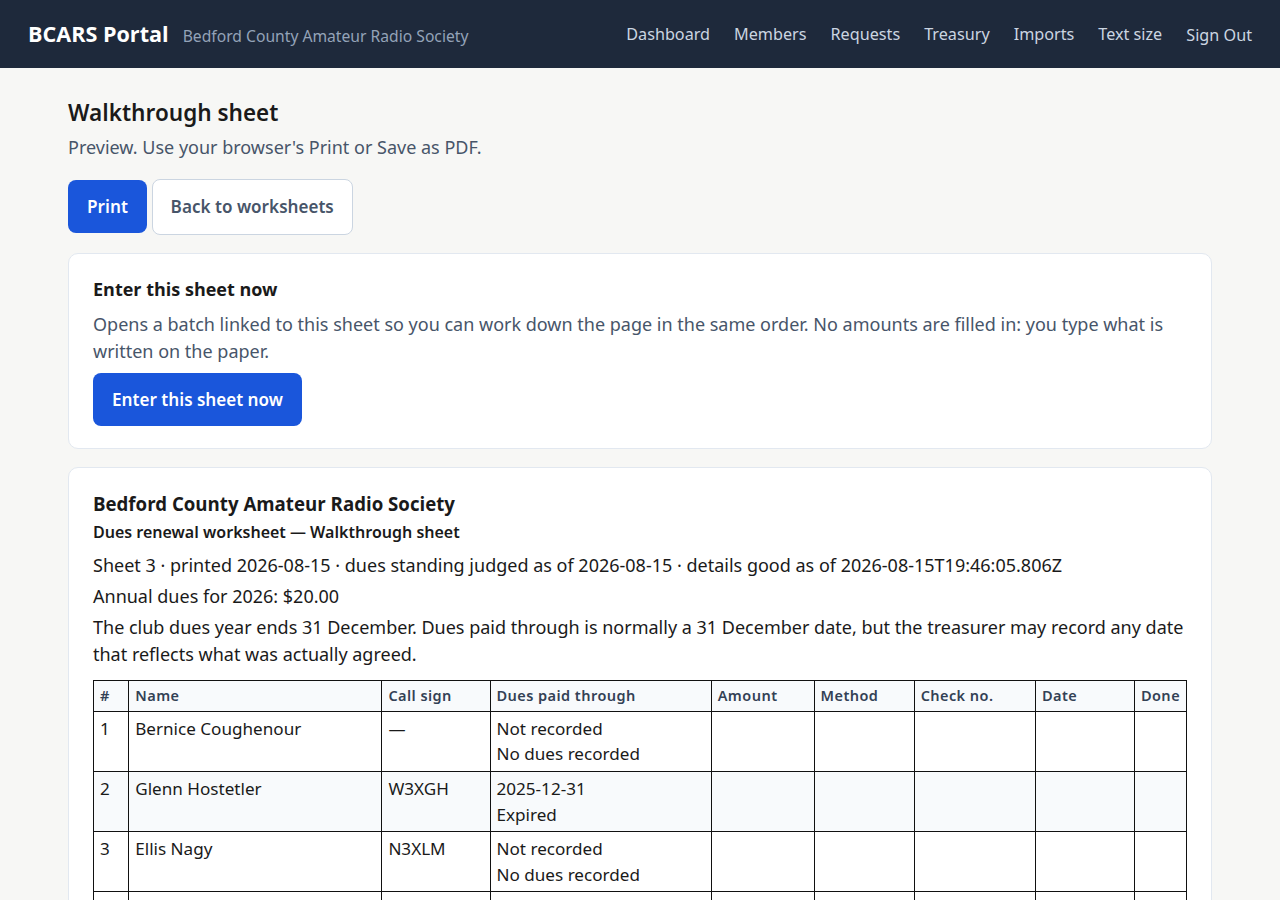
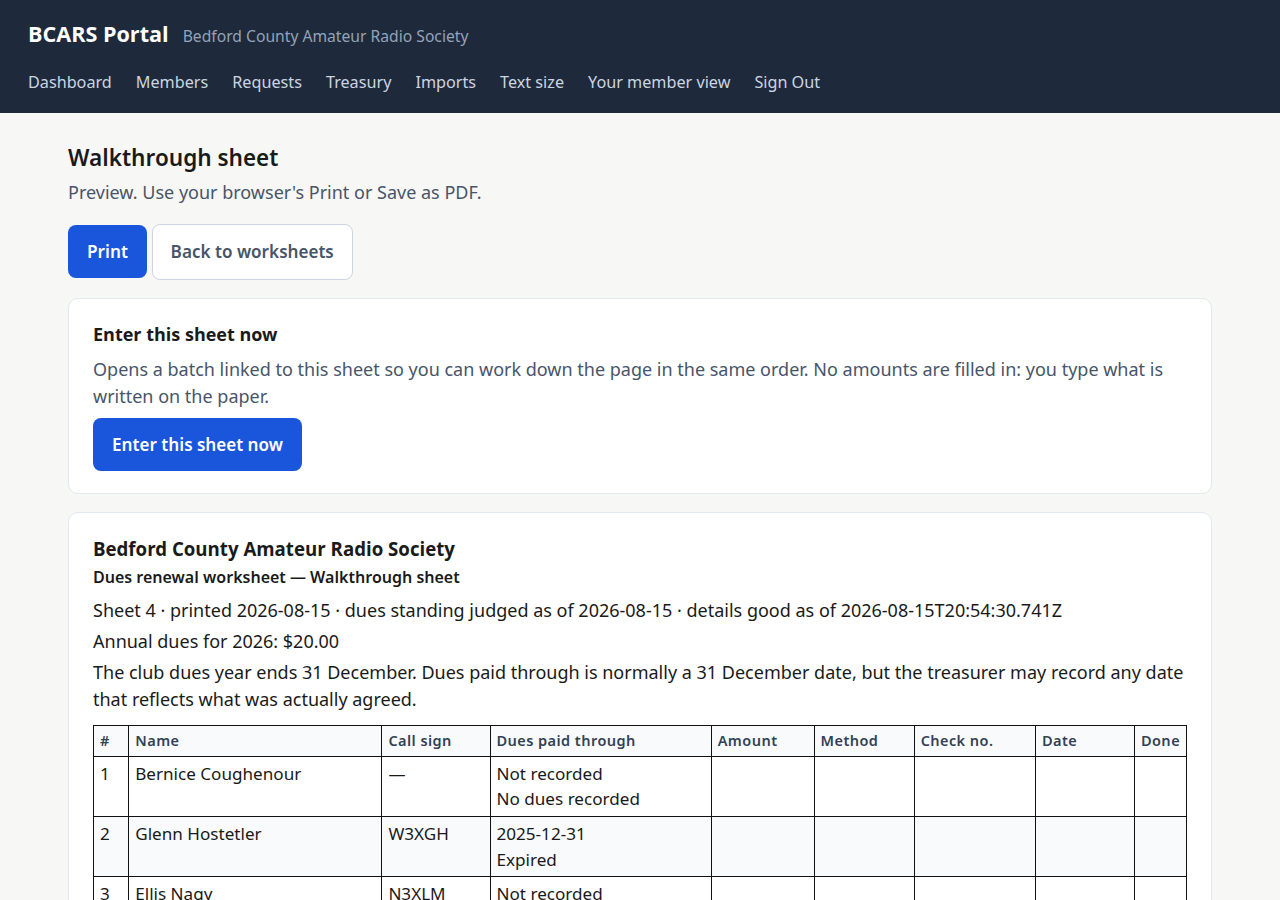
feat(web): a way across between the officer and member surfaces (62d)
The two headers had no link between them, so whichever surface a caller
landed on was the one they stayed in: a treasurer who is also a member
had their own records on one side and the treasury on the other, and the
only way across was to type a URL. Officers are members, so this is the
ordinary case rather than an edge one.

Each header now offers the other surface, and only to a caller who can
reach it: the officer header links the member view when the caller holds
profile.self.read, and the member header links the officer view when the
caller can reach any officer surface. A member sees no officer link,
which is asserted, because a link that leads to a refusal is worse than
no link.

The two layouts stay separate templates. A single header that asked which
caller it was rendering for would be one forgotten condition away from
advertising officer pages to a member, which is why they were split.

To gate the links the layout needed to know the caller's capabilities,
which it never has: chrome carried only TextSize. It now carries the nav
flags navFor already computes, threaded through h.renderPage — the single
funnel that has the request in hand — for the same reason TextSize goes
that way rather than onto sixty-odd view models, one of which would be
forgotten.

Both directions mutation-checked: removing the officer-side link, and
making the member-side link unconditional, each turn the matching test
red.
[…]

diff --git a/internal/web/templates/layout.html b/internal/web/templates/layout.html
@@ -58,6 +58,19 @@
             <a href="/admin/treasury">Treasury</a>
             <a href="/admin/imports">Imports</a>
             <a href="/preferences/text-size">Text size</a>
+            {{/*
+                The way across to the member surface, shown only to an officer
+                who has one. Officers are members, so most officers do — and
+                before this the two surfaces had no link between them at all:
+                whichever one you landed on was the one you stayed in
+                (bcars-portal-62d).
+
+                The two layouts stay separate. A single header that asked which
+                caller it was rendering for would be one forgotten condition
+                away from advertising officer pages to a member, which is the
+                reason they were split in the first place.
+            */}}
+            {{if .Nav.Member}}<a href="/member/">Your member view</a>{{end}}
             <form method="post" action="/logout">
                 <button type="submit">Sign Out</button>
             </form>

diff --git a/internal/web/templates/member_layout.html b/internal/web/templates/member_layout.html
@@ -60,6 +60,8 @@
             <a href="/member/">Your records</a>
             <a href="/member/requests">Your suggestions</a>
             <a href="/preferences/text-size">Text size</a>
+            {{/* The officer surface, offered only to a caller who can reach it. */}}
+            {{if .Nav.AnyOfficer}}<a href="/admin/">Officer view</a>{{end}}
             <form method="post" action="/logout">
                 <button type="submit">Sign out</button>
             </form>

diff --git a/internal/web/textsize.go b/internal/web/textsize.go
@@ -56,7 +56,7 @@ func (h *Handler) textSizeFor(r *http.Request) string {
 // goes through here rather than calling the renderer directly, so a new page
 // inherits the preference without its author having to remember it.
 func (h *Handler) renderPage(w http.ResponseWriter, r *http.Request, name string, status int, data any) {
-	h.render.RenderPage(w, name, status, data, h.textSizeFor(r))
+	h.render.RenderPage(w, name, status, data, h.textSizeFor(r), navFor(h.principalFromRequest(r)))
 }
 
 // setTextSize stores the caller's text size preference.
@@ -121,13 +121,13 @@ func backFor(p *authz.Principal) (href, label string) {
 // standalone today: if it ever grows a base layout, the renderer wraps it and
 // this keeps working, where a direct RenderHTTP would quietly hand the layout a
 // struct with no .Page and fail at execution.
-func (h *Handler) renderTextSize(w http.ResponseWriter, status int, data textSizeData) {
-	h.render.RenderPage(w, "text_size.html", status, data, data.TextSize)
+func (h *Handler) renderTextSize(w http.ResponseWriter, r *http.Request, status int, data textSizeData) {
+	h.render.RenderPage(w, "text_size.html", status, data, data.TextSize, navFor(h.principalFromRequest(r)))
 }
 
 func (h *Handler) textSizePage(w http.ResponseWriter, r *http.Request) {
 	href, label := backFor(h.principal(r))
-	h.renderTextSize(w, http.StatusOK, textSizeData{
+	h.renderTextSize(w, r, http.StatusOK, textSizeData{
 		TextSize:  h.textSizeFor(r),
 		BackHref:  href,
 		BackLabel: label,
@@ -143,7 +143,7 @@ func (h *Handler) textSizeSubmit(w http.ResponseWriter, r *http.Request) {
 		// The stored preference is left alone: a form post naming a size the
 		// portal does not render is not a reason to reset the one the caller
 		// already chose.
-		h.renderTextSize(w, http.StatusUnprocessableEntity, textSizeData{
+		h.renderTextSize(w, r, http.StatusUnprocessableEntity, textSizeData{
 			TextSize:  h.textSizeFor(r),
 			BackHref:  href,
 			BackLabel: label,
@@ -156,7 +156,7 @@ func (h *Handler) textSizeSubmit(w http.ResponseWriter, r *http.Request) {
 		h.log.Error("save text size preference failed",
 			slog.Int64("user_id", p.UserID),
 			slog.String("error", err.Error()))
-		h.renderTextSize(w, http.StatusInternalServerError, textSizeData{
+		h.renderTextSize(w, r, http.StatusInternalServerError, textSizeData{
 			TextSize:  h.textSizeFor(r),
 			BackHref:  href,
 			BackLabel: label,
@@ -165,7 +165,7 @@ func (h *Handler) textSizeSubmit(w http.ResponseWriter, r *http.Request) {
 		return
 	}
 
-	h.renderTextSize(w, http.StatusOK, textSizeData{
+	h.renderTextSize(w, r, http.StatusOK, textSizeData{
 		TextSize:  size,
 		BackHref:  href,
 		BackLabel: label,

diff --git a/internal/web/reachability_test.go b/internal/web/reachability_test.go
@@ -444,3 +444,34 @@ func TestAnUnknownAPIPathAnswersAsAnAPI(t *testing.T) {
 	e.mux.ServeHTTP(w, req)
 	assert.Contains(t, w.Body.String(), "<!DOCTYPE html>", "a browser must still get the page")
 }
+
+// A person who is both officer and member used to be stranded in whichever
+// surface they landed on: the two headers had no link between them, so crossing
+// meant typing a URL (bcars-portal-62d). Officers are members, so this is the
+// ordinary case, not an edge one.
+
+func TestAnOfficerWhoIsAlsoAMemberCanCrossBetweenSurfaces(t *testing.T) {
+	e := setupHandlerWithRoles(t, "administrator")
+
+	officerPage := e.body(t, "GET", "/admin/", "")
+	assert.Contains(t, officerPage, `href="/member/"`,
+		"an officer with a member surface should be offered the way across")
+
+	// And back again: the member header carries the return link for a caller
+	// who can reach the officer surface.
+	memberPage := e.body(t, "GET", RouteMemberHome, "")
+	assert.Contains(t, memberPage, `href="/admin/"`,
+		"the member surface should offer the way back for someone who can use it")
+}
+
+// TestAMemberIsOfferedNoOfficerSurface is the half that keeps the separation
+// honest: the link is capability-gated, not decoration.
+func TestAMemberIsOfferedNoOfficerSurface(t *testing.T) {
+	e := setupDirectoryEligibleMember(t)
+
+	body := e.getAs(t, RouteMemberHome, e.testEnv.cookie).Body.String()
+
+	assert.NotContains(t, body, `href="/admin/"`,
+		"a member must not be shown a link to a surface that would refuse them")
+	assert.NotContains(t, body, "Officer view")
+}

diff --git a/internal/web/render.go b/internal/web/render.go
@@ -87,6 +87,12 @@ type chrome struct {
 	// data-text-size attribute on <html>, so the size is settled by the markup
 	// the server sent rather than applied by a script after first paint.
 	TextSize string
+	// Nav says which surfaces this caller can reach, so a header can offer the
+	// way across to the other one and only to a caller who has one. It arrives
+	// here rather than on each view model for the same reason TextSize does:
+	// the alternative is a field added to sixty-odd structs, one of which would
+	// be forgotten.
+	Nav navLinks
 }
 
 // HasLayout reports whether a page embeds a base layout and is therefore
@@ -172,9 +178,9 @@ func (r *Renderer) Render(w io.Writer, name string, data any) error {
 // RenderPage renders a page, wrapping its view model in chrome when the page
 // embeds a base layout. Handlers call this rather than RenderHTTP so a page
 // cannot reach the layout without the values the layout dereferences.
-func (r *Renderer) RenderPage(w http.ResponseWriter, name string, status int, data any, textSize string) {
+func (r *Renderer) RenderPage(w http.ResponseWriter, name string, status int, data any, textSize string, nav navLinks) {
 	if r.layouts[name] {
-		data = chrome{Page: data, TextSize: textSize}
+		data = chrome{Page: data, TextSize: textSize, Nav: nav}
 	}
 	r.RenderHTTP(w, name, status, data)
 }

diff --git a/internal/web/handler.go b/internal/web/handler.go
@@ -598,6 +598,10 @@ type dashboardData struct {
 // always shown Members and Imports to everyone, which sends officers to a
 // permission error to discover what they cannot do.
 type navLinks struct {
+	// Member reports whether the caller has a member surface of their own to
+	// visit. Officers are members (PLANNING.md), so for most officers this is
+	// true and the two surfaces need a way across (bcars-portal-62d).
+	Member     bool
 	Members    bool
 	Imports    bool
 	Standing   bool
@@ -610,6 +614,7 @@ type navLinks struct {
 // navFor reads the routes a principal may follow.
 func navFor(p *authz.Principal) navLinks {
 	return navLinks{
+		Member:     hasCap(p, "profile.self.read"),
 		Members:    hasCap(p, "member.read"),
 		Imports:    hasCap(p, "import.upload"),
 		Standing:   hasCap(p, "dues.read"),

diff --git a/internal/web/handler_test.go b/internal/web/handler_test.go
@@ -397,7 +397,7 @@ func TestTemplateRendering(t *testing.T) {
 	}
 	for _, tt := range tests {
 		w := httptest.NewRecorder()
-		r.RenderPage(w, tt.name, http.StatusOK, tt.data, textSizeBase)
+		r.RenderPage(w, tt.name, http.StatusOK, tt.data, textSizeBase, navLinks{})
 		assert.Equal(t, http.StatusOK, w.Code, "template %s should render", tt.name)
 	}
 }
